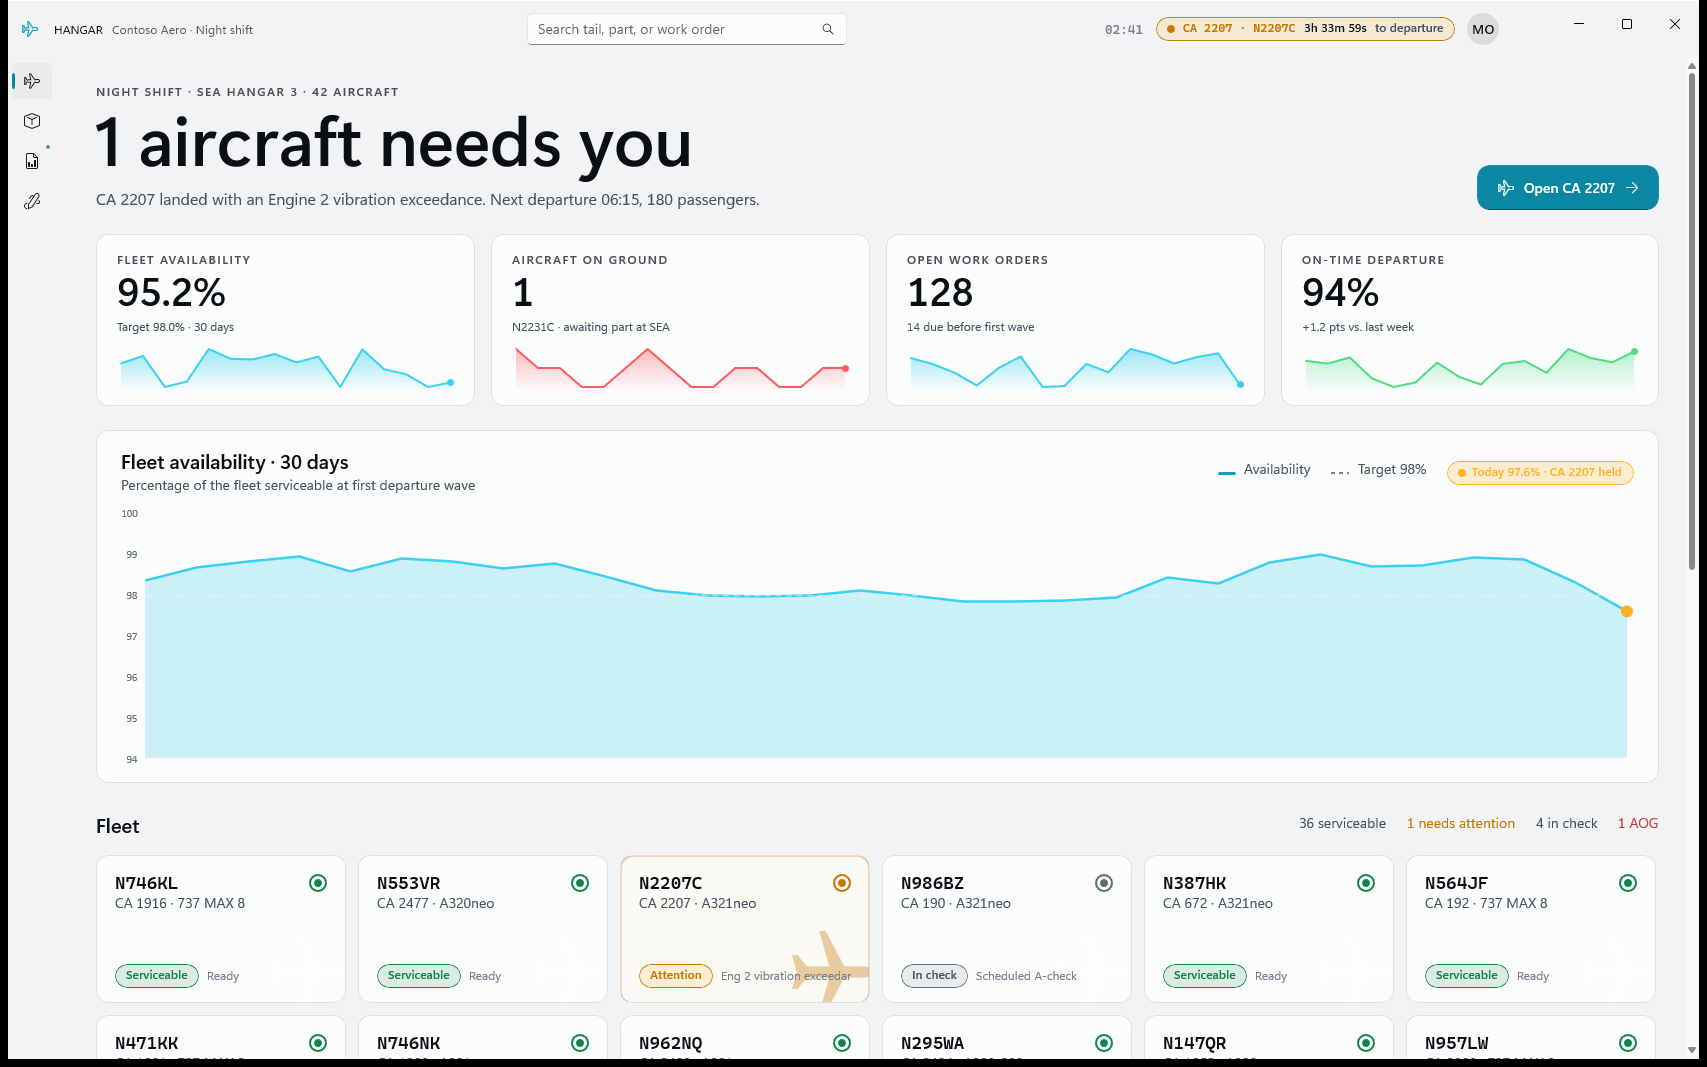
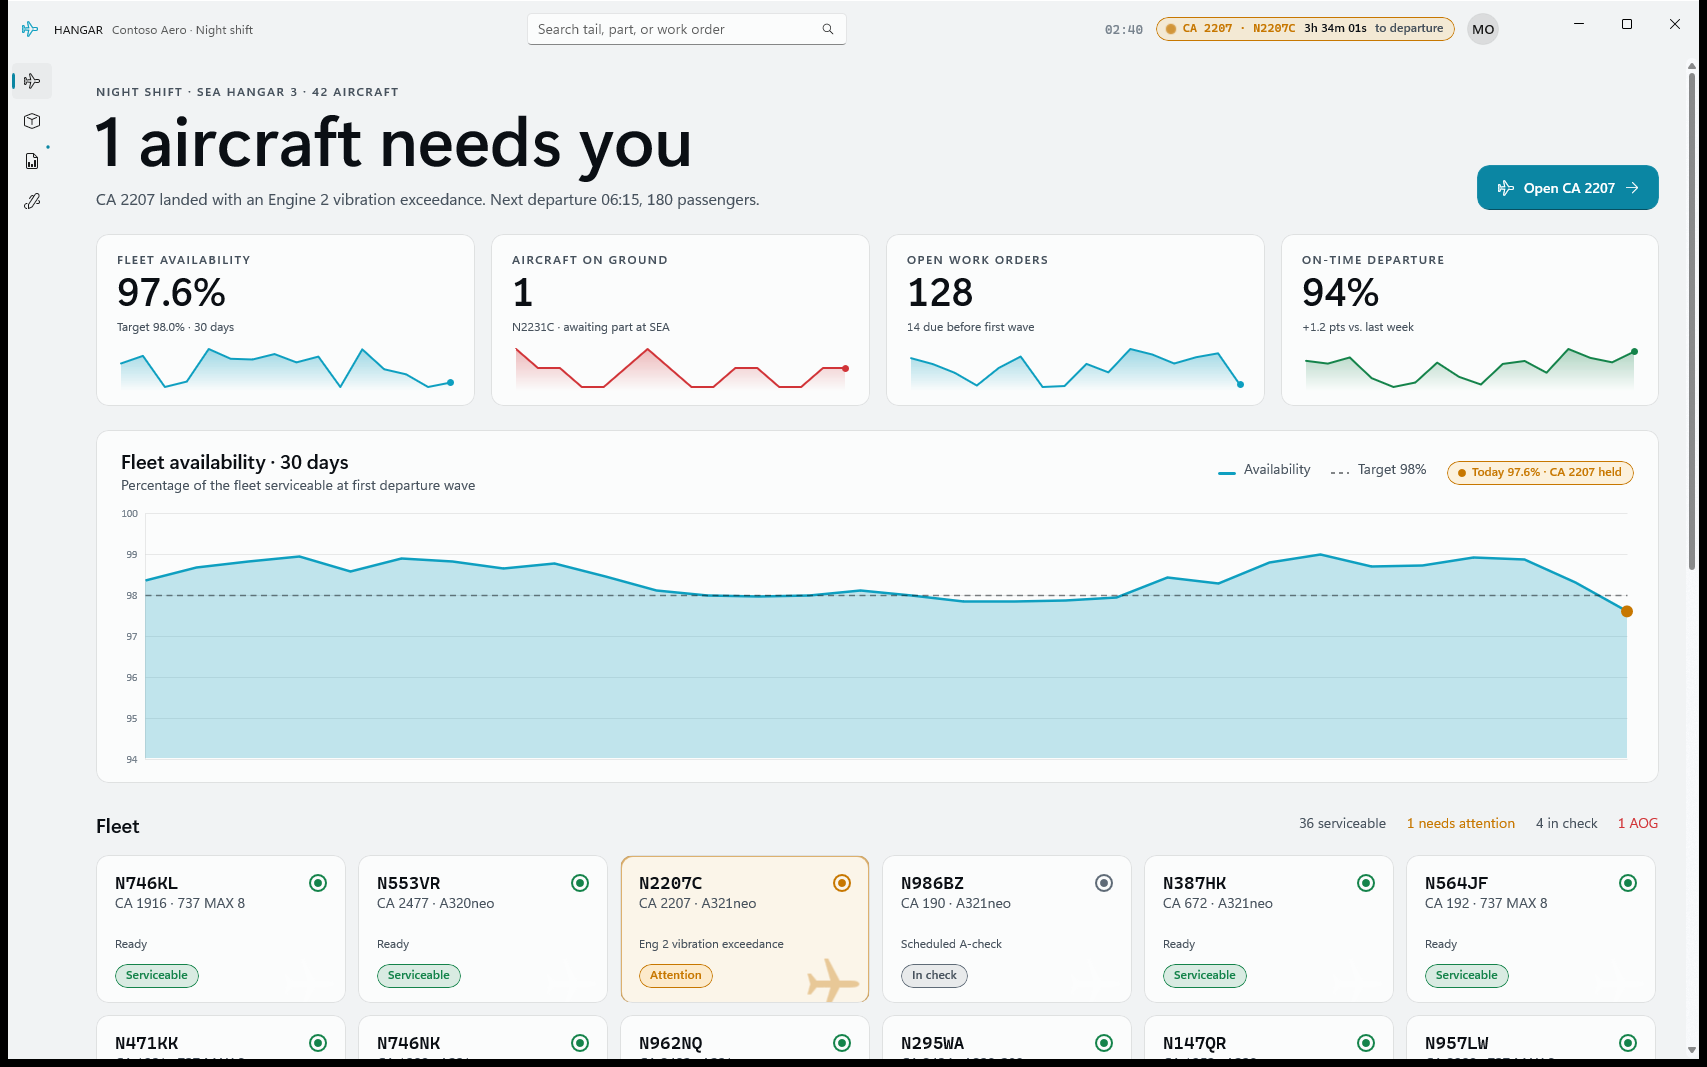
Fleet polish: single availability source, tile notes clear of silhouette

diff --git a/Hangar/Controls/FleetTile.xaml b/Hangar/Controls/FleetTile.xaml
@@ -14,12 +14,12 @@
             CornerRadius="{StaticResource CardCornerRadius}"
             Visibility="Collapsed" />
 
-        <!--  Faint silhouette, nose to the right.  -->
+        <!--  Faint silhouette, nose to the right. Sized to sit beside the status pill only, below the note line.  -->
         <Path
             x:Name="Silhouette"
-            Width="84"
-            Height="84"
-            Margin="0,0,-6,-10"
+            Width="52"
+            Height="52"
+            Margin="0,0,10,-6"
             HorizontalAlignment="Right"
             VerticalAlignment="Bottom"
             Data="M50,4 C54,4 56,10 56,18 L56,38 L94,58 L94,65 L56,54 L56,78 L68,88 L68,94 L50,89 L32,94 L32,88 L44,78 L44,54 L6,65 L6,58 L44,38 L44,18 C44,10 46,4 50,4 Z"
@@ -73,29 +73,34 @@
                 Foreground="{ThemeResource SecondaryTextBrush}"
                 Style="{StaticResource BodyTextStyle}" />
 
-            <StackPanel
+            <!--  Note sits on its own line above the silhouette watermark, so it never overlaps it.  -->
+            <TextBlock
+                x:Name="NoteText"
+                Grid.Row="2"
+                Grid.ColumnSpan="2"
+                Margin="0,0,0,10"
+                VerticalAlignment="Bottom"
+                FontSize="12"
+                Foreground="{ThemeResource SecondaryTextBrush}"
+                MaxLines="1"
+                Style="{StaticResource BodyTextStyle}"
+                TextTrimming="CharacterEllipsis"
+                TextWrapping="NoWrap" />
+
+            <Border
+                x:Name="Pill"
                 Grid.Row="3"
                 Grid.ColumnSpan="2"
-                Orientation="Horizontal"
-                Spacing="8">
-                <Border
-                    x:Name="Pill"
-                    Background="{ThemeResource HealthySoftBrush}"
-                    BorderBrush="{ThemeResource HealthyBrush}"
-                    Style="{StaticResource PillBorderStyle}">
-                    <TextBlock
-                        x:Name="StatusLabel"
-                        Foreground="{ThemeResource HealthyBrush}"
-                        Style="{StaticResource PillTextStyle}"
-                        Text="Serviceable" />
-                </Border>
+                HorizontalAlignment="Left"
+                Background="{ThemeResource HealthySoftBrush}"
+                BorderBrush="{ThemeResource HealthyBrush}"
+                Style="{StaticResource PillBorderStyle}">
                 <TextBlock
-                    x:Name="NoteText"
-                    VerticalAlignment="Center"
-                    Foreground="{ThemeResource TertiaryTextBrush}"
-                    Style="{StaticResource BodyTextStyle}"
-                    FontSize="12" />
-            </StackPanel>
+                    x:Name="StatusLabel"
+                    Foreground="{ThemeResource HealthyBrush}"
+                    Style="{StaticResource PillTextStyle}"
+                    Text="Serviceable" />
+            </Border>
         </Grid>
 
         <VisualStateManager.VisualStateGroups>

diff --git a/Hangar/Views/FleetPage.xaml b/Hangar/Views/FleetPage.xaml
@@ -153,7 +153,7 @@
                                         x:Name="DipText"
                                         Foreground="{ThemeResource AttentionBrush}"
                                         Style="{StaticResource PillTextStyle}"
-                                        Text="Today 95.2% · CA 2207 held" />
+                                        Text="Today 97.6% · CA 2207 held" />
                                 </StackPanel>
                             </Border>
                         </StackPanel>
@@ -161,7 +161,7 @@
                     <charts:Chart
                         x:Name="AvailabilityChart"
                         Grid.Row="1"
-                        AutomationProperties.Name="Fleet availability over the last 30 days compared with the 98 percent target. Today dips to 95.2 percent." />
+                        AutomationProperties.Name="Fleet availability over the last 30 days compared with the 98 percent target. Today 97.6 percent, CA 2207 held." />
                 </Grid>
             </Border>
 

diff --git a/Hangar/Views/FleetPage.xaml.cs b/Hangar/Views/FleetPage.xaml.cs
@@ -62,16 +62,11 @@ public sealed partial class FleetPage : Page
         OpenWoKpi.SetSpark(Data.OpenWoSpark, "AccentCyanBrush", "AccentAreaBrush");
         OnTimeKpi.SetSpark(Data.OnTimeSpark, "HealthyBrush", "HealthyAreaBrush");
 
-        var series = Data.Availability30.ToList();
-        if (healthy)
-        {
-            series[^1] = 97.6;
-        }
-
-        var today = series[^1];
+        var series = Data.Availability30;
+        var today = Data.TodayAvailability;
         var factory = ChartFactory.For(AvailabilityChart, this).Axes(series.Count, 94, 100, visible: true, ySpacing: 1);
         factory.Area(series, "AccentCyanBrush", "AccentAreaBrush", 2.5, "Availability");
-        factory.Reference(series.Count, 98, "ChartTargetBrush", title: "Target");
+        factory.Reference(series.Count, FleetDataService.AvailabilityTarget, "ChartTargetBrush", title: "Target");
         factory.Marker(series.Count - 1, today, healthy ? "HealthyBrush" : "AttentionBrush", title: "Today");
 
         var pillBrush = healthy ? "HealthyBrush" : "AttentionBrush";
@@ -84,6 +79,9 @@ public sealed partial class FleetPage : Page
         }
 
         DipText.Text = healthy ? $"Today {today:0.0}% · CA 2207 released" : $"Today {today:0.0}% · CA 2207 held";
+        Microsoft.UI.Xaml.Automation.AutomationProperties.SetName(AvailabilityChart,
+            $"Fleet availability over 30 days versus a {FleetDataService.AvailabilityTarget:0} percent target. Today {today:0.0} percent, CA 2207 {(healthy ? "released" : "held")}.");
+        AvailabilityKpi.Value = $"{today:0.0}%";
     }
 
     private void RefreshSummary()
@@ -106,14 +104,12 @@ public sealed partial class FleetPage : Page
             HeadlineText.Text = "All clear for first wave";
             SubheadText.Text = "CA 2207 signed off by Maya Okafor. Engine 2 within limits — departing 06:15 as scheduled.";
             SpotlightButton.Visibility = Visibility.Collapsed;
-            AvailabilityKpi.Value = "97.6%";
         }
         else
         {
             HeadlineText.Text = attention == 1 ? "1 aircraft needs you" : $"{attention} aircraft need you";
             SubheadText.Text = "CA 2207 landed with an Engine 2 vibration exceedance. Next departure 06:15, 180 passengers.";
             SpotlightButton.Visibility = Visibility.Visible;
-            AvailabilityKpi.Value = "95.2%";
         }
     }
 

diff --git a/Hangar/Services/FleetDataService.cs b/Hangar/Services/FleetDataService.cs
@@ -68,9 +68,33 @@ public sealed class FleetDataService
 
     public const double VibrationThreshold = 1.8;
 
-    public IReadOnlyList<double> Availability30 { get; private set; } = [];
+    public const double AvailabilityTarget = 98.0;
 
-    public IReadOnlyList<double> AvailabilitySpark { get; private set; } = [];
+    /// <summary>
+    /// Single source of truth for today's fleet availability (%). Drives the KPI value, the sparkline
+    /// endpoint, the hero chart endpoint/marker and the "Today" badge. 97.6% while CA 2207 is held.
+    /// </summary>
+    public double TodayAvailability => Hero.Status == AircraftStatus.Healthy ? 98.1 : 97.6;
+
+    private double[] _availabilityHistory = [];
+    private double[] _availabilitySparkHistory = [];
+
+    /// <summary>30-day availability; the last point is always <see cref="TodayAvailability"/>.</summary>
+    public IReadOnlyList<double> Availability30 => WithToday(_availabilityHistory);
+
+    /// <summary>KPI sparkline; the last point is always <see cref="TodayAvailability"/>.</summary>
+    public IReadOnlyList<double> AvailabilitySpark => WithToday(_availabilitySparkHistory);
+
+    private double[] WithToday(double[] history)
+    {
+        var values = (double[])history.Clone();
+        if (values.Length > 0)
+        {
+            values[^1] = TodayAvailability;
+        }
+
+        return values;
+    }
 
     public IReadOnlyList<double> AogSpark { get; private set; } = [];
 
@@ -288,11 +312,10 @@ public sealed class FleetDataService
             availability[i] = Math.Round(98.1 + Math.Sin(i / 3.2) * 0.5 + rng.NextDouble() * 0.5, 2);
         }
 
-        availability[29] = 97.6;
         availability[28] = 98.3;
-        Availability30 = availability;
+        _availabilityHistory = availability;
 
-        AvailabilitySpark = Spark(rng, 98.0, 0.6, 97.6);
+        _availabilitySparkHistory = Spark(rng, AvailabilityTarget, 0.6, AvailabilityTarget);
         AogSpark = [2, 1, 1, 0, 0, 1, 2, 1, 0, 0, 1, 1, 0, 0, 1, 1];
         OpenWoSpark = Spark(rng, 135, 8, 128);
         OnTimeSpark = Spark(rng, 92, 2.5, 94);

diff --git a/Hangar/Controls/FleetTile.xaml.cs b/Hangar/Controls/FleetTile.xaml.cs
@@ -73,6 +73,7 @@ public sealed partial class FleetTile : UserControl
         TailText.Text = aircraft.Tail;
         FlightText.Text = $"{aircraft.Flight} · {aircraft.Type}";
         NoteText.Text = string.IsNullOrEmpty(aircraft.StatusNote) ? $"{aircraft.Station} · {aircraft.NextDeparture}" : aircraft.StatusNote;
+        ToolTipService.SetToolTip(NoteText, NoteText.Text);
         AutomationProperties.SetName(this, $"{aircraft.Tail}, {aircraft.Flight}, {aircraft.Status}. {NoteText.Text}");
         VisualStateManager.GoToState(this, aircraft.Status.ToString(), useTransitions);
         SetBreathing(aircraft.Status == AircraftStatus.Attention);
